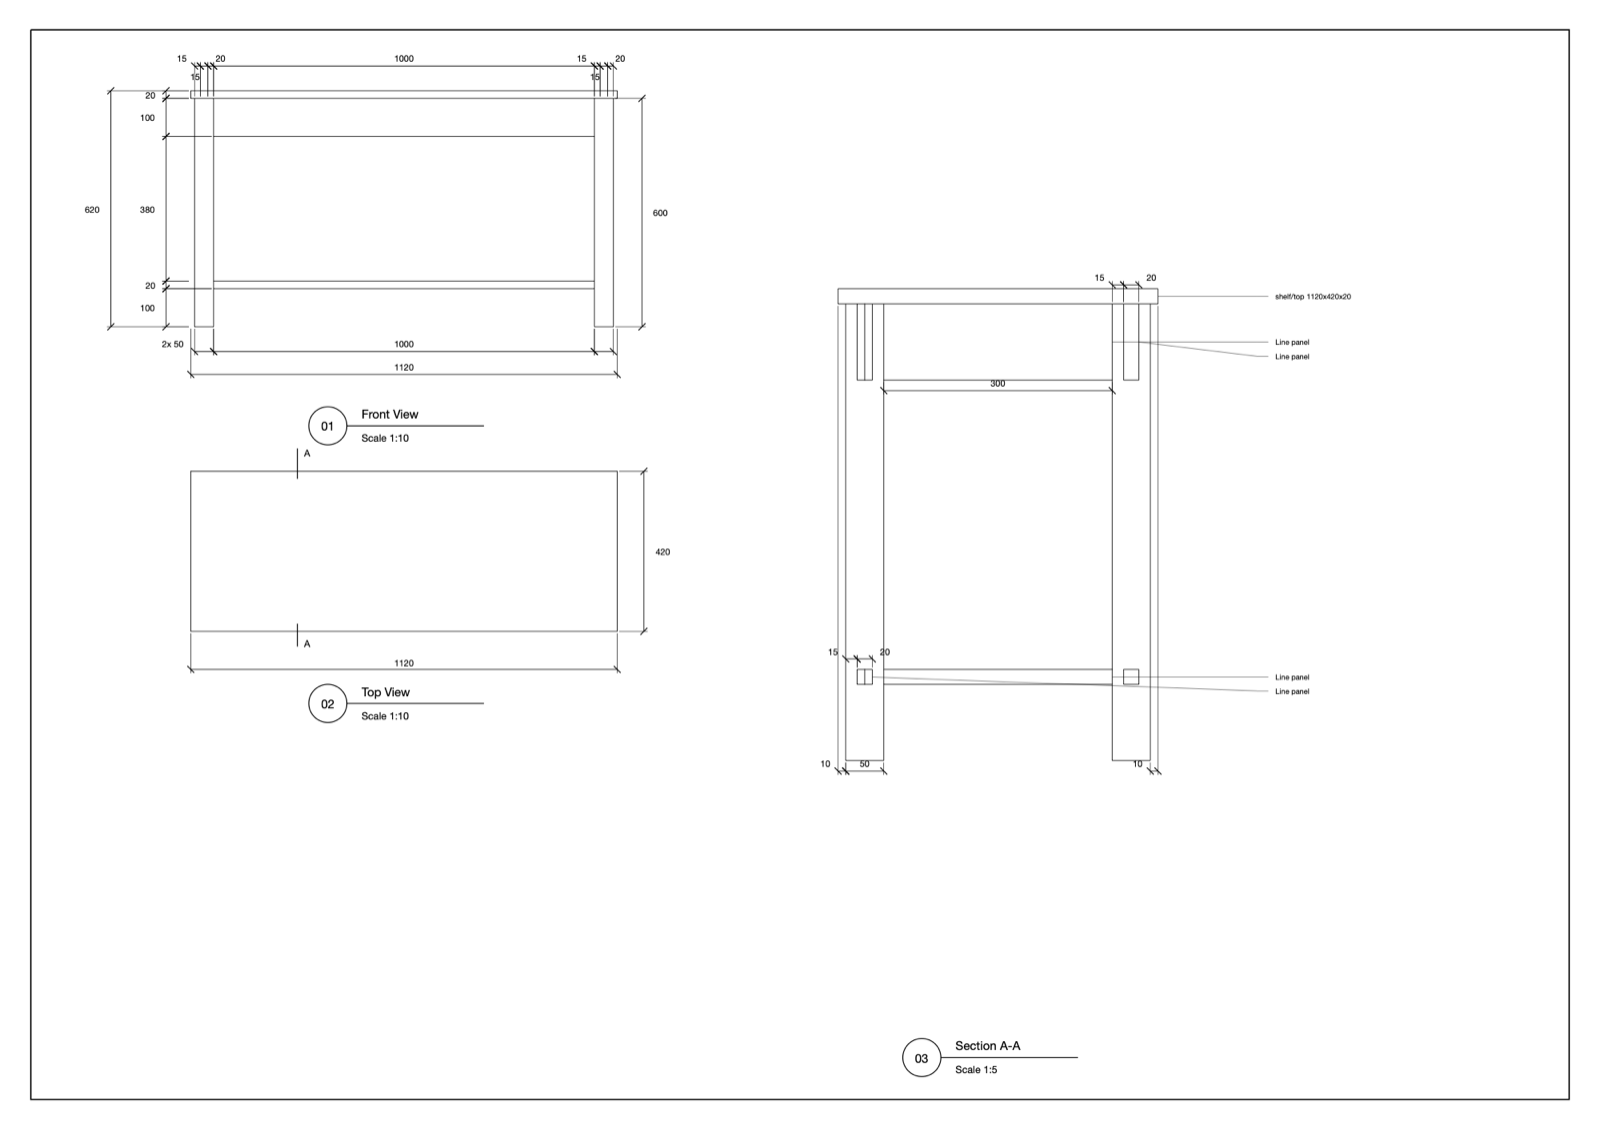
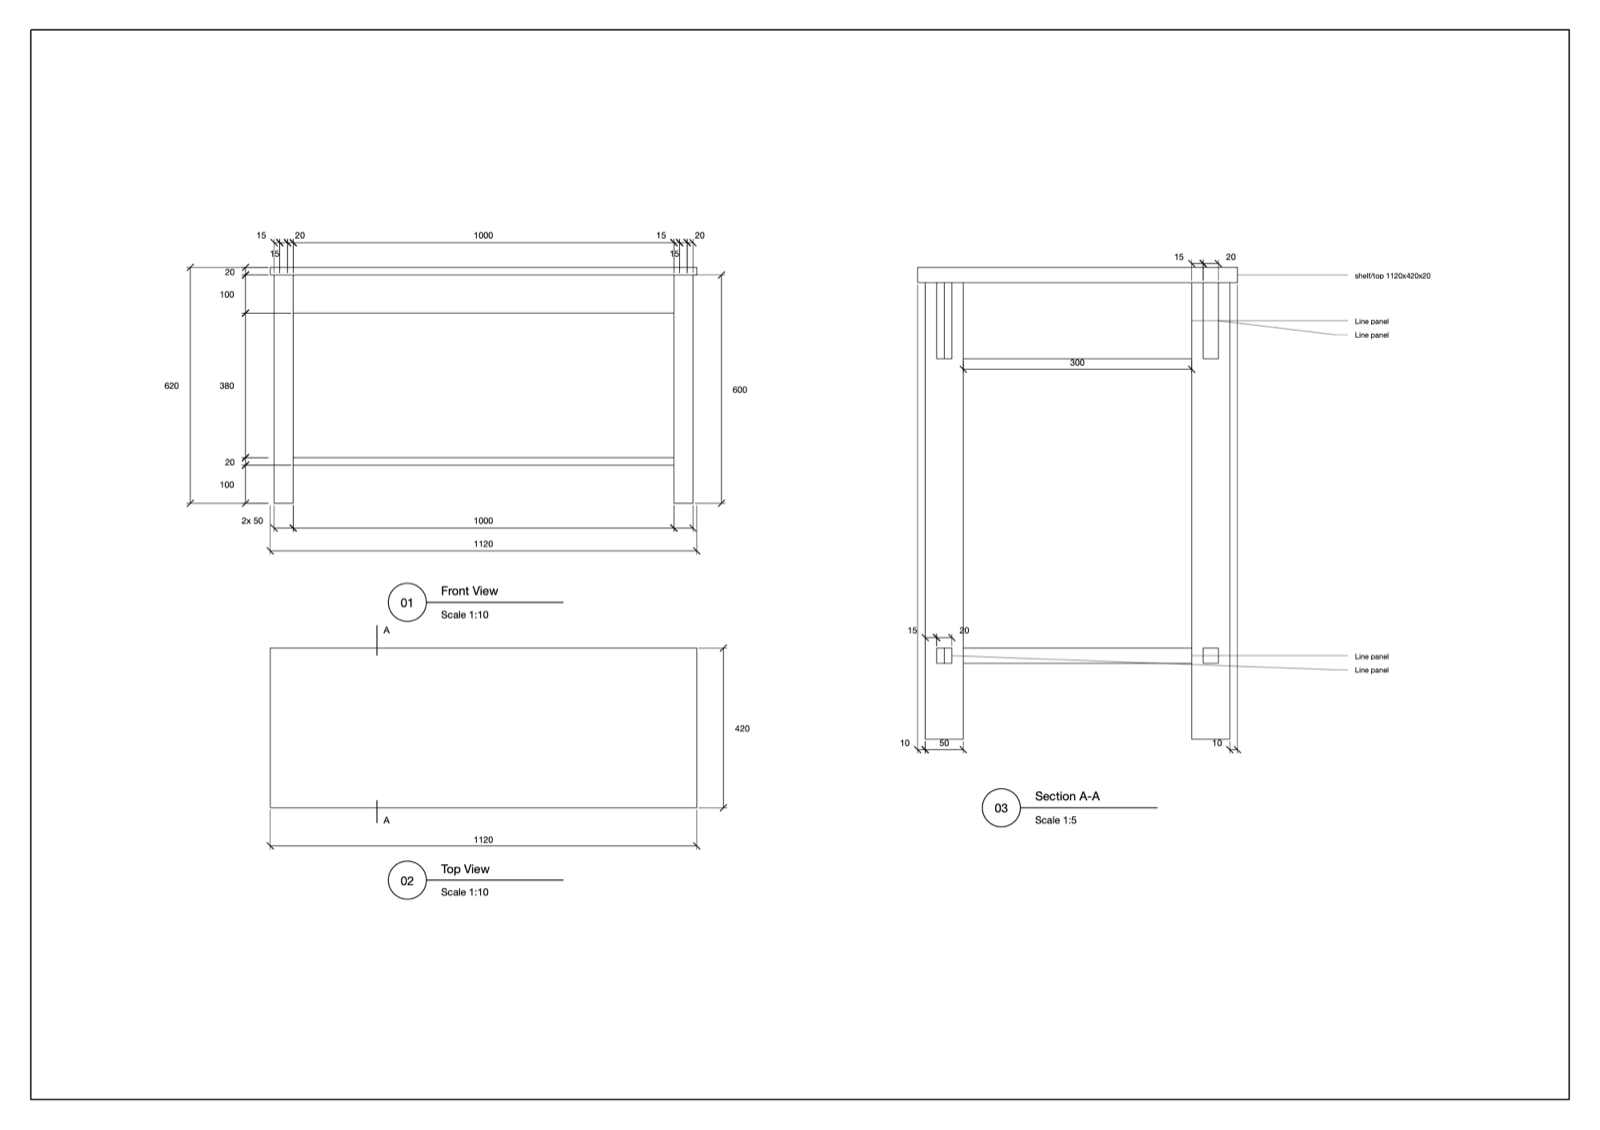
Release Quick Dimension 1.7.1
Sheets are now centred in the frame on both pages. Update the download,
version numbers and sample images.

diff --git a/index.html b/index.html
@@ -4,7 +4,7 @@
 <meta charset="utf-8">
 <meta name="viewport" content="width=device-width, initial-scale=1">
 <title>Quick Dimension — SketchUp extension by Andi Dewanto</title>
-<meta name="description" content="Quick Dimension 1.7.0 — free SketchUp extension by Andi Dewanto: live dimensions on screen and automatic A3 drawing sheets. Download, tutorial and support (English / Indonesian).">
+<meta name="description" content="Quick Dimension 1.7.1 — free SketchUp extension by Andi Dewanto: live dimensions on screen and automatic A3 drawing sheets. Download, tutorial and support (English / Indonesian).">
 <meta name="color-scheme" content="light dark">
 <style>
   :root {
@@ -135,7 +135,7 @@
   <div class="split">
     <aside class="sidebar"><div class="inner">
       <a class="brand" href="https://andidewanto.github.io/sketchup-extensions/" title="Andi Dewanto"><img src="images/brand-andidewanto.png" alt="Andi Dewanto logo"></a>
-      <div class="side-app"><img src="images/quick-dimension-logo.png" alt=""><div><b>Quick Dimension</b><span><span class="en">Version</span><span class="id">Versi</span> 1.7.0</span></div></div>
+      <div class="side-app"><img src="images/quick-dimension-logo.png" alt=""><div><b>Quick Dimension</b><span><span class="en">Version</span><span class="id">Versi</span> 1.7.1</span></div></div>
       <nav>
       <a href="#overview" class="active"><svg viewBox="0 0 16 16" fill="none" stroke="currentColor" stroke-width="1.5"><circle cx="8" cy="8" r="6.5"/><path d="M8 7.2v4M8 4.8v.1" stroke-linecap="round"/></svg><span class="en">Overview</span><span class="id">Ringkasan</span></a>
       <a href="#install"><svg viewBox="0 0 16 16" fill="none" stroke="currentColor" stroke-width="1.5" stroke-linecap="round" stroke-linejoin="round"><circle cx="8" cy="8" r="6.5"/><path d="M8 4.5v6M5.5 8.2 8 10.7l2.5-2.5"/></svg><span class="en">Install</span><span class="id">Instalasi</span></a>
@@ -151,8 +151,8 @@
     </div></aside>
     <main class="content">
       <section id="overview">
-        <div class="hero"><img src="images/quick-dimension-logo.png" alt="Quick Dimension icon"><div><h1>Quick Dimension</h1><p class="sub"><span class="en">Read any size on screen, or get a full A3 drawing in seconds.</span><span class="id">Baca ukuran apa pun di layar, atau dapatkan gambar A3 lengkap dalam hitungan detik.</span></p><p class="sub" style="font-size:13px"><span class="en">Free SketchUp extension · SketchUp 2021+ · Version</span><span class="id">Extension SketchUp gratis · SketchUp 2021+ · Versi</span> 1.7.0</p>
-          <div class="btns"><a class="btn primary" href="downloads/ad_quick_dimension-1.7.0.rbz"><span class="en">Download</span><span class="id">Unduh</span> .rbz</a><a class="btn" href="tutorial.html">Tutorial</a></div></div></div>
+        <div class="hero"><img src="images/quick-dimension-logo.png" alt="Quick Dimension icon"><div><h1>Quick Dimension</h1><p class="sub"><span class="en">Read any size on screen, or get a full A3 drawing in seconds.</span><span class="id">Baca ukuran apa pun di layar, atau dapatkan gambar A3 lengkap dalam hitungan detik.</span></p><p class="sub" style="font-size:13px"><span class="en">Free SketchUp extension · SketchUp 2021+ · Version</span><span class="id">Extension SketchUp gratis · SketchUp 2021+ · Versi</span> 1.7.1</p>
+          <div class="btns"><a class="btn primary" href="downloads/ad_quick_dimension-1.7.1.rbz"><span class="en">Download</span><span class="id">Unduh</span> .rbz</a><a class="btn" href="tutorial.html">Tutorial</a></div></div></div>
         <p class="en">Quick Dimension does two jobs. <b>On screen:</b> click any object or face and read its size straight away, with nothing added to your model. <b>On paper:</b> select your objects and <b>Generate A3 Sheet</b> builds a dimensioned drawing, ready to print as a PDF or to edit in LayOut.</p><p class="id">Quick Dimension punya dua fungsi. <b>Di layar:</b> klik objek atau face dan langsung baca ukurannya, tanpa menambah apa pun ke model. <b>Di kertas:</b> pilih objek, lalu <b>Generate A3 Sheet</b> membuat gambar berdimensi, siap dicetak sebagai PDF atau diedit di LayOut.</p>
         <div class="shots"><img src="images/quick-dimension-sheet-1.png" alt="Page 1 of a generated A3 sheet: front, top and section views with dimensions"><img src="images/quick-dimension-sheet-2.png" alt="Page 2 of a generated A3 sheet: isometric view with overall dimensions"></div>
         <h2><span class="en">Generate A3 Sheet</span><span class="id">Generate A3 Sheet</span></h2>

diff --git a/tutorial.html b/tutorial.html
@@ -135,7 +135,7 @@
   <div class="split">
     <aside class="sidebar"><div class="inner">
       <a class="brand" href="https://andidewanto.github.io/sketchup-extensions/" title="Andi Dewanto"><img src="images/brand-andidewanto.png" alt="Andi Dewanto logo"></a>
-      <div class="side-app"><img src="images/quick-dimension-logo.png" alt=""><div><b>Quick Dimension</b><span>Tutorial · 1.7.0</span></div></div>
+      <div class="side-app"><img src="images/quick-dimension-logo.png" alt=""><div><b>Quick Dimension</b><span>Tutorial · 1.7.1</span></div></div>
       <nav>
       <a href="./"><svg viewBox="0 0 16 16" fill="none" stroke="currentColor" stroke-width="1.5"><circle cx="8" cy="8" r="6.5"/><path d="M8 7.2v4M8 4.8v.1" stroke-linecap="round"/></svg><span class="en">Overview</span><span class="id">Ringkasan</span></a>
       <div class="side-sep">Tutorial</div>
@@ -189,7 +189,7 @@
     <p style="margin:18px 0 0;padding:16px 20px;border:1px solid var(--line);border-radius:14px;color:var(--ink)">Buy me a coffee for IDR 10,000. That's less than a dollar. The plugin is free. The coffee is optional. My wife insisted on this button.</p>
   </section>
 
-  <footer><span class="en">Quick Dimension 1.7.0 · Andi Dewanto · Windows &amp; Mac · SketchUp 2021+ (tested on SketchUp 2026, macOS)</span><span class="id">Quick Dimension 1.7.0 · Andi Dewanto · Windows &amp; Mac · SketchUp 2021+ (diuji di SketchUp 2026, macOS)</span> · <a href="./">Quick Dimension</a> · <a href="https://andidewanto.github.io/sketchup-extensions/">More extensions</a></footer>
+  <footer><span class="en">Quick Dimension 1.7.1 · Andi Dewanto · Windows &amp; Mac · SketchUp 2021+ (tested on SketchUp 2026, macOS)</span><span class="id">Quick Dimension 1.7.1 · Andi Dewanto · Windows &amp; Mac · SketchUp 2021+ (diuji di SketchUp 2026, macOS)</span> · <a href="./">Quick Dimension</a> · <a href="https://andidewanto.github.io/sketchup-extensions/">More extensions</a></footer>
     </main>
   </div>
 </div>

diff --git a/README.md b/README.md
@@ -2,7 +2,7 @@
 
 **Read any size on screen, or get a full A3 drawing in seconds.**
 
-Free · SketchUp 2021+ · Version 1.7.0
+Free · SketchUp 2021+ · Version 1.7.1
 
 [**Download**](https://andidewanto.github.io/quick-dimension/) · [**Tutorial**](https://andidewanto.github.io/quick-dimension/tutorial.html)
 
